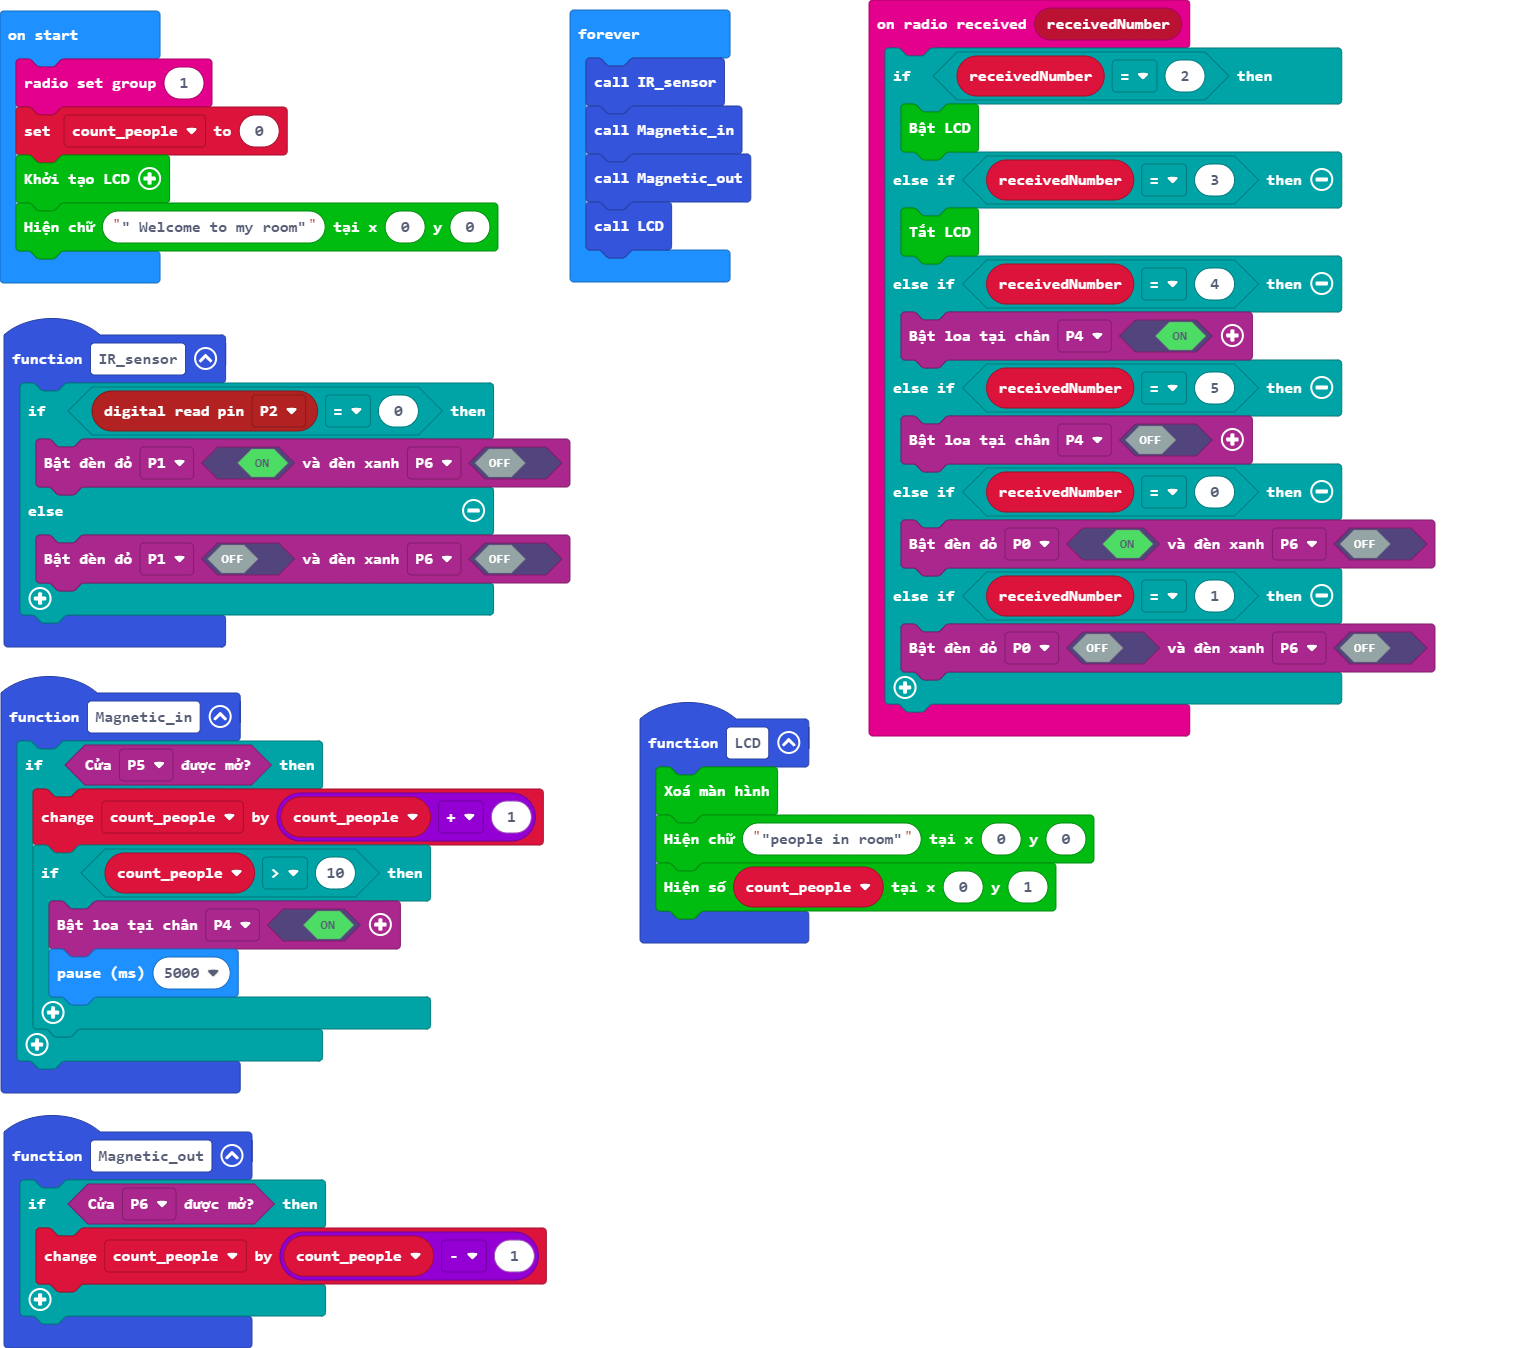
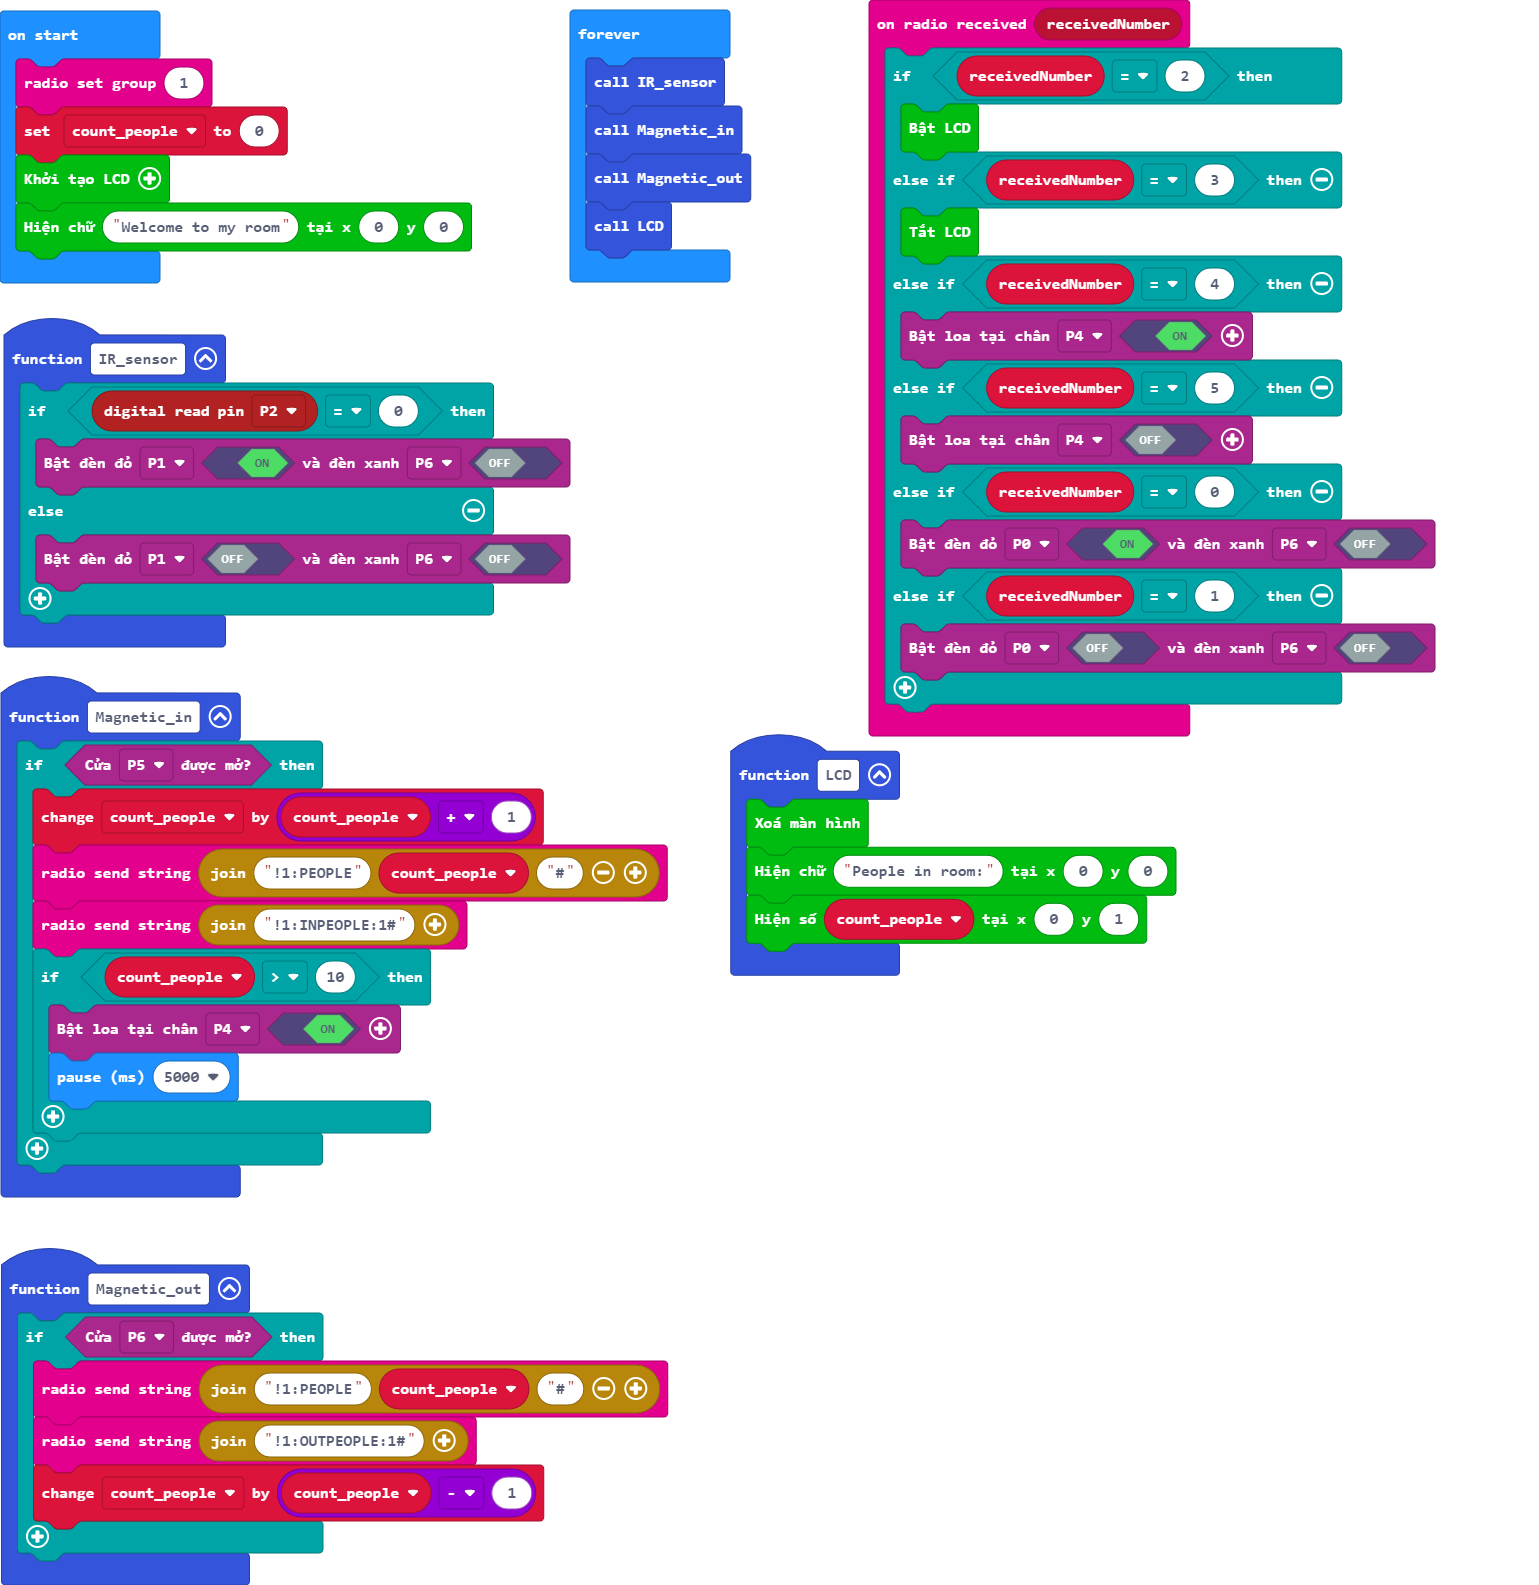
Add sending people, inpeople, outpeople  data to adafruit  feature

diff --git a/main.ts b/main.ts
@@ -15,7 +15,7 @@ radio.onReceivedNumber(function (receivedNumber) {
 })
 function LCD () {
     NPNLCD.clear()
-    NPNLCD.ShowString("\"people in room\"", 0, 0)
+    NPNLCD.ShowString("People in room:", 0, 0)
     NPNLCD.ShowNumber(count_people, 0, 1)
 }
 function IR_sensor () {
@@ -28,6 +28,8 @@ function IR_sensor () {
 function Magnetic_in () {
     if (NPNBitKit.ButtonDoorOpen(DigitalPin.P5)) {
         count_people += count_people + 1
+        radio.sendString("!1:PEOPLE" + count_people + "#")
+        radio.sendString("!1:INPEOPLE:1#")
         if (count_people > 10) {
             NPNBitKit.Buzzer(DigitalPin.P4, true)
             basic.pause(5000)
@@ -36,6 +38,8 @@ function Magnetic_in () {
 }
 function Magnetic_out () {
     if (NPNBitKit.ButtonDoorOpen(DigitalPin.P6)) {
+        radio.sendString("!1:PEOPLE" + count_people + "#")
+        radio.sendString("!1:OUTPEOPLE:1#")
         count_people += count_people - 1
     }
 }
@@ -43,7 +47,7 @@ let count_people = 0
 radio.setGroup(1)
 count_people = 0
 NPNLCD.LcdInit()
-NPNLCD.ShowString("\" Welcome to my room\"", 0, 0)
+NPNLCD.ShowString("Welcome to my room", 0, 0)
 basic.forever(function () {
     IR_sensor()
     Magnetic_in()
